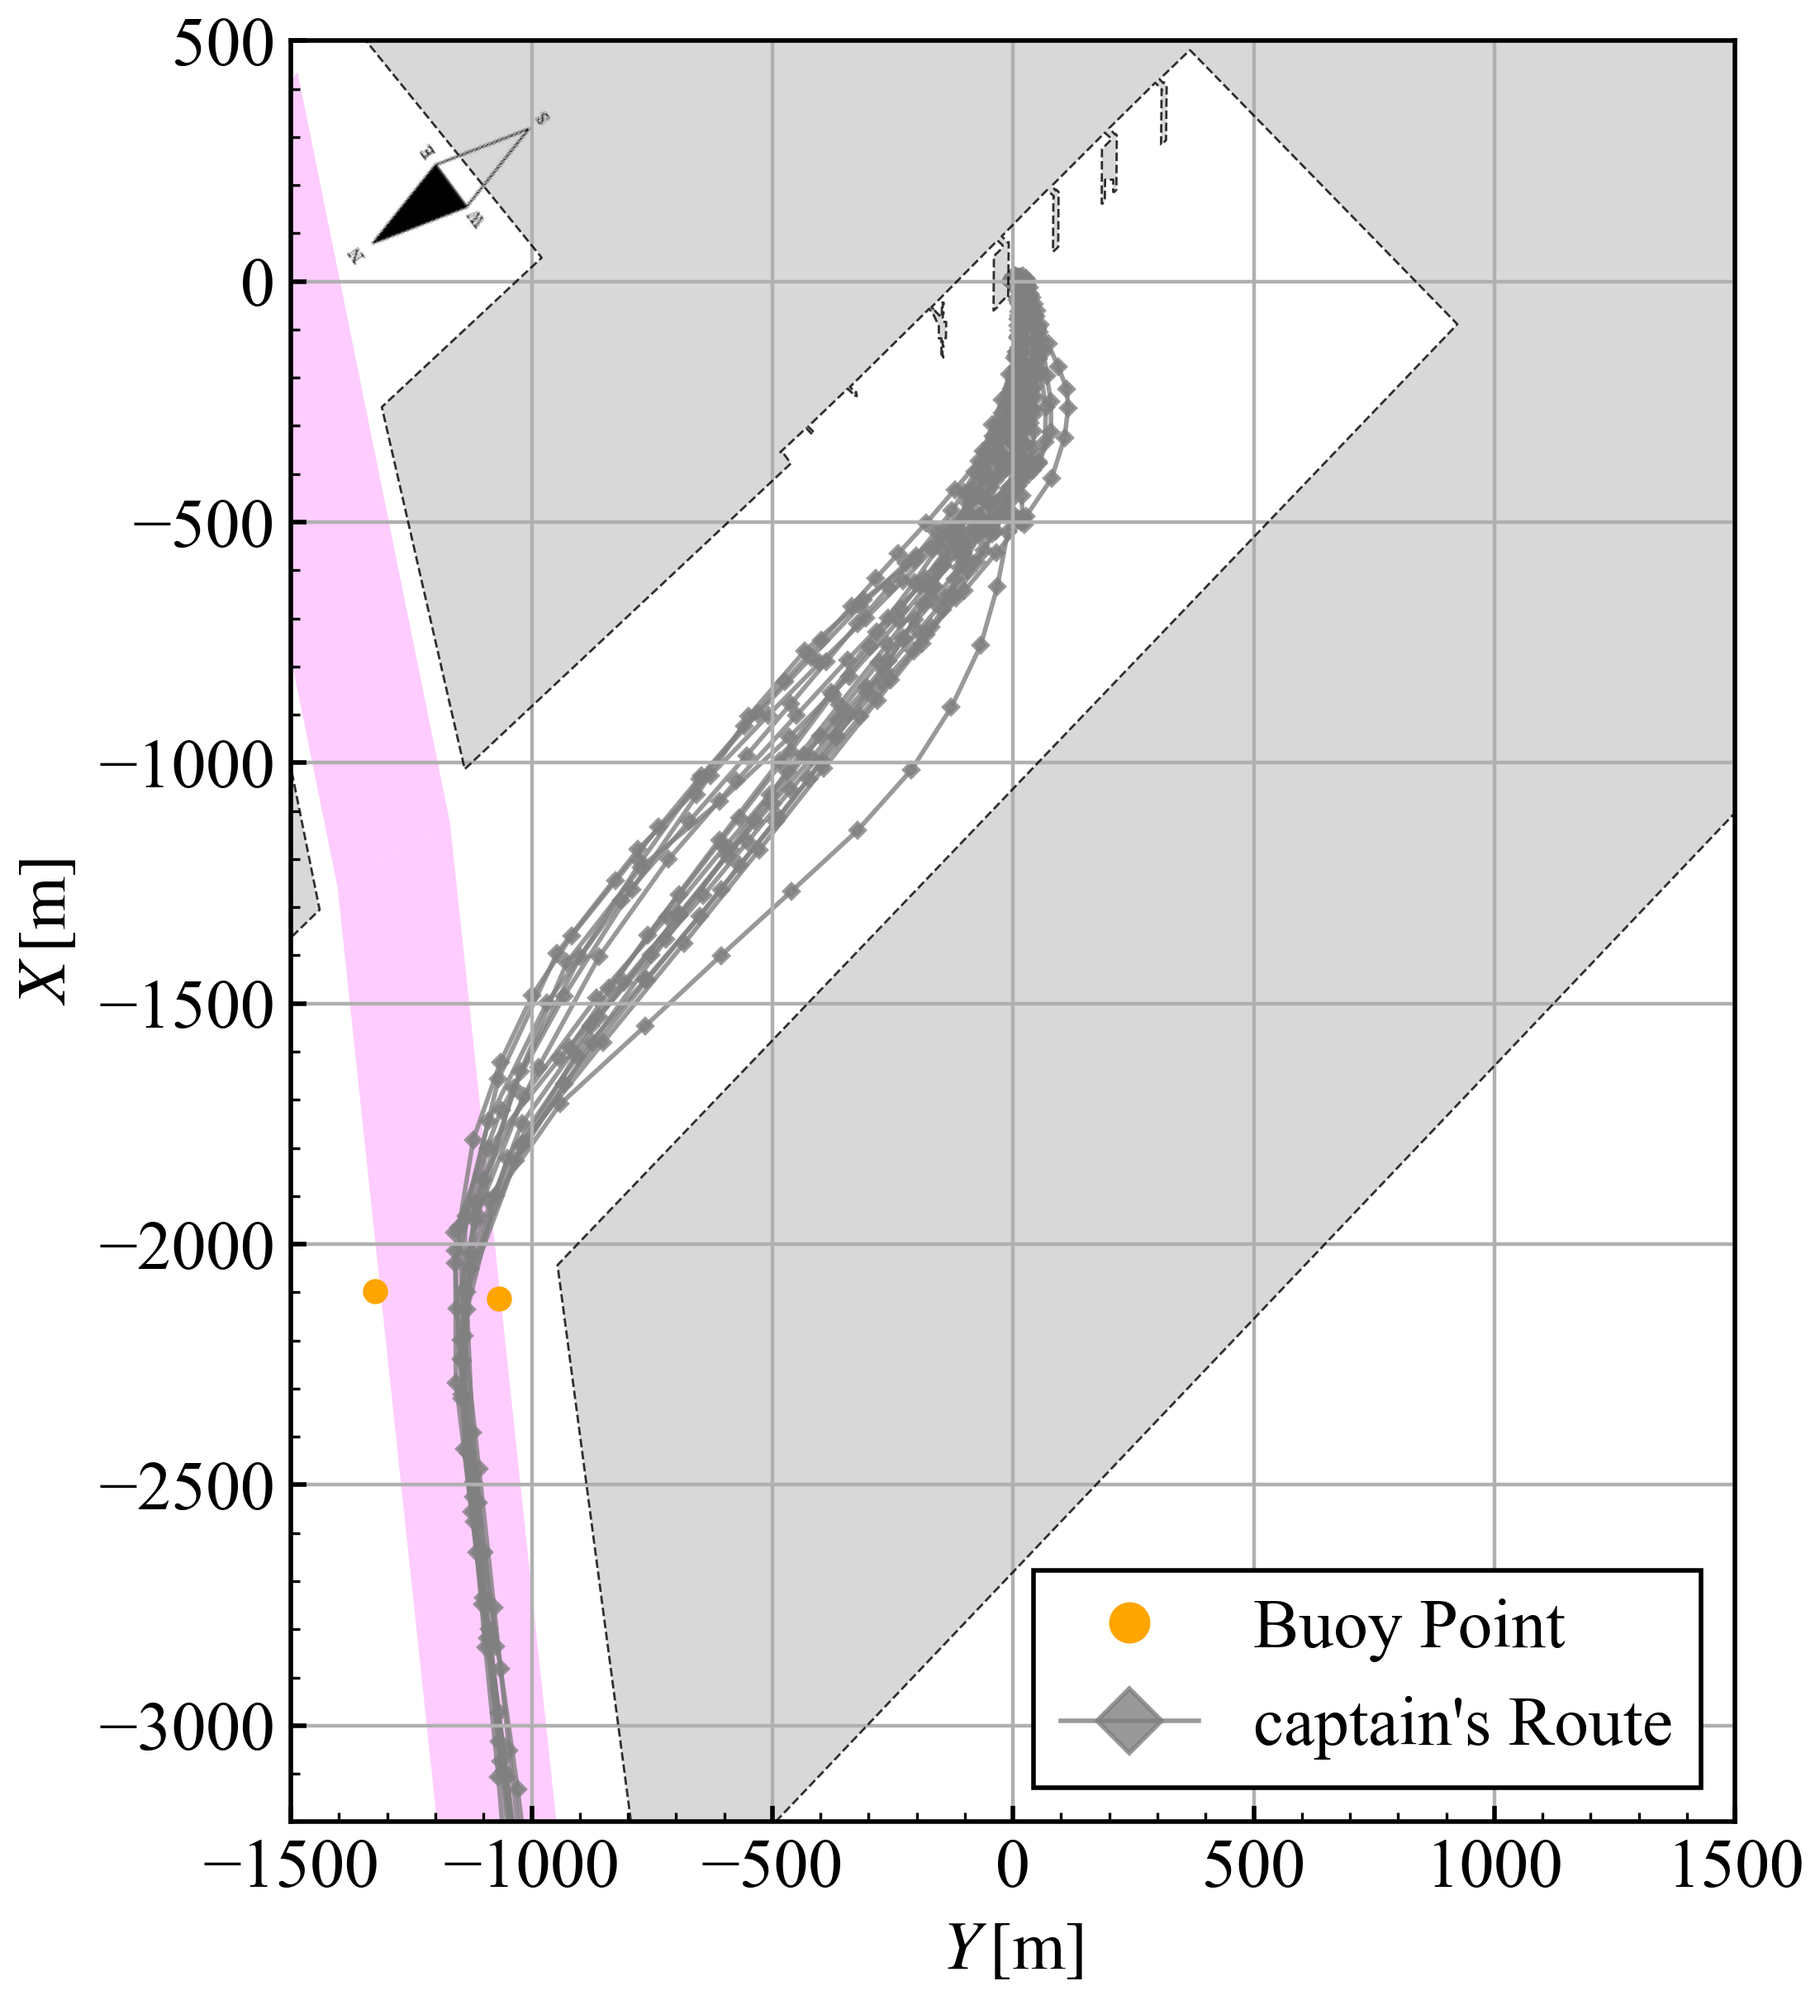
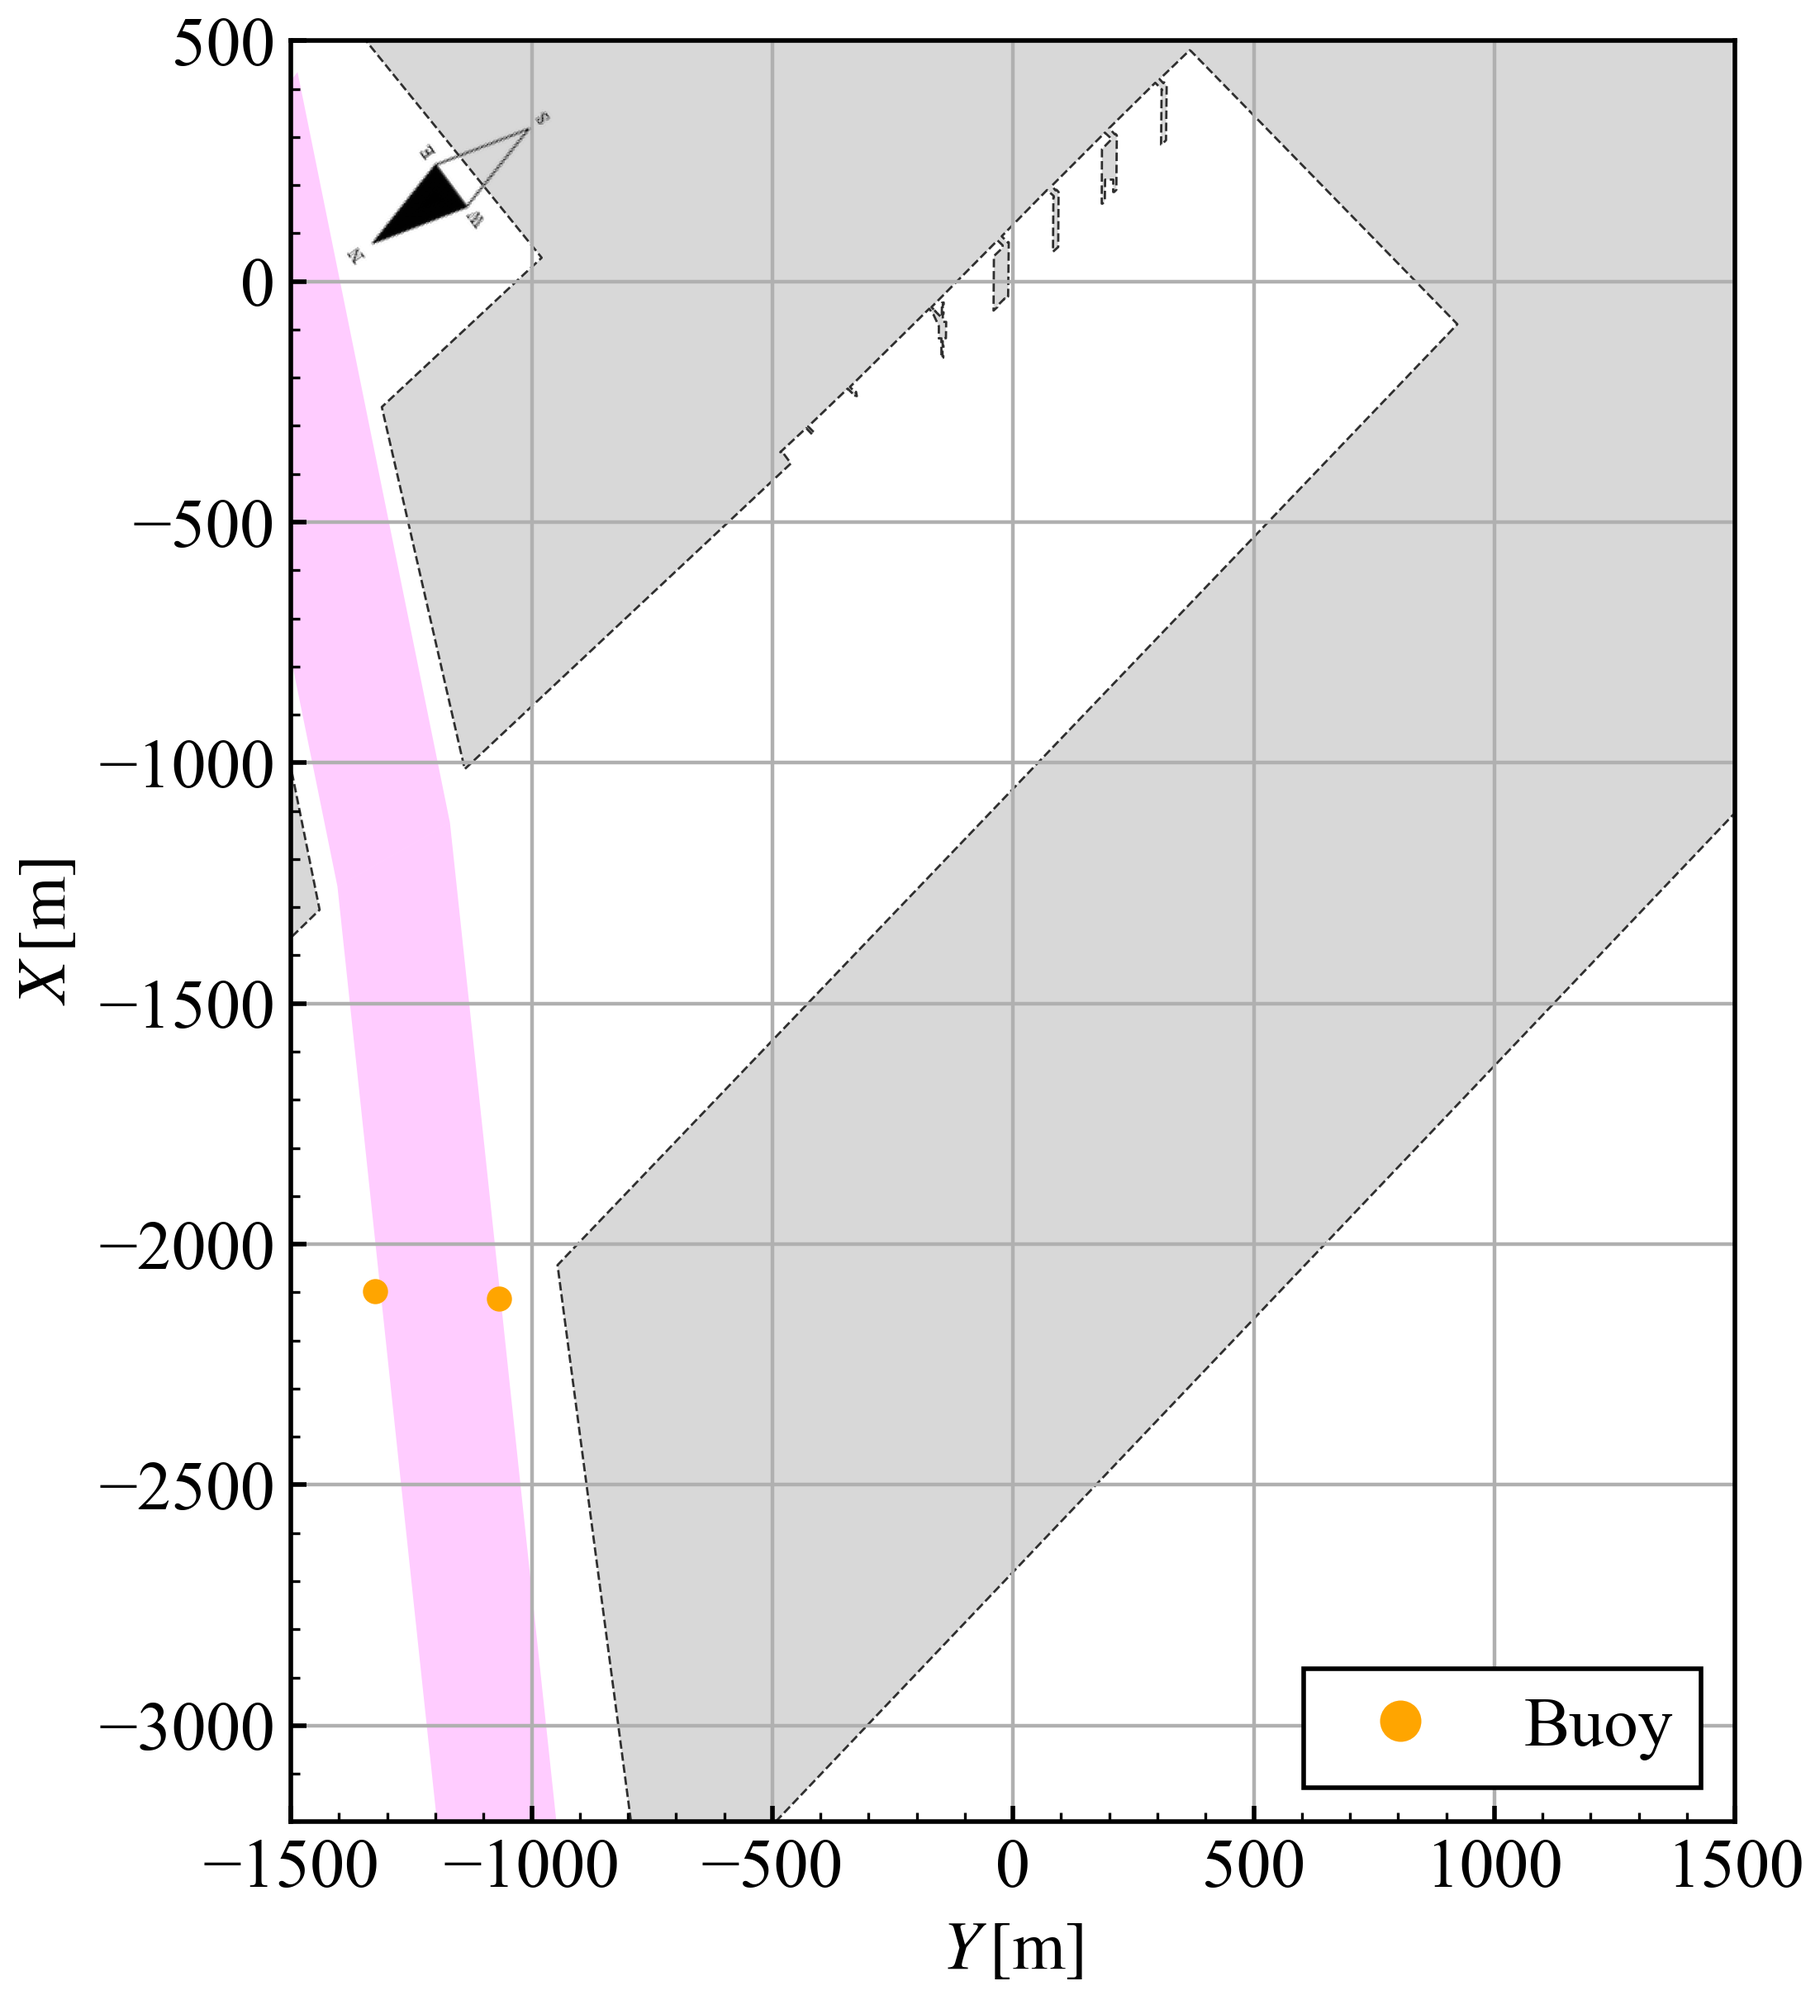
出船右舷行けた

diff --git a/program/path_planning/CMA-ES3.py b/program/path_planning/CMA-ES3.py
@@ -12,7 +12,7 @@ import pandas as pd
 from scipy import ndimage
 import shapely
 from shapely import contains_xy, intersects_xy, prepare
-from shapely.geometry import Polygon, Point
+from shapely.geometry import Polygon, Point, LineString
 from shapely.prepared import prep
 from shapely.validation import make_valid
 from typing import ClassVar, Tuple
@@ -26,12 +26,13 @@ from utils.PP.MultiPlot import RealTraj
 
 DIR = os.path.dirname(__file__)
 dirname = os.path.splitext(os.path.basename(__file__))[0]
+theta_list = np.arange(np.deg2rad(0), np.deg2rad(360), np.deg2rad(3))
 
 
 class Setting:
     def __init__(self):
         # port
-        self.port_number: int = 9
+        self.port_number: int = 8
          # 0: Osaka_1A, 1: Tokyo_2C, 2: Yokkaichi_2B, 3: Else_1, 4: Osaka_1B
          # 5: Else_2, 6: Kashima, 7: Aomori, 8: Hachinohe, 9: Shimizu
          # 10: Tomakomai, 11: KIX
@@ -72,6 +73,7 @@ class Line:
     lane:ClassVar = None
 
     def __post_init__(self):
+        self.theta = self.theta % (2 * np.pi)
         if self.end_pt == None:
             end_pt = self.fixed_pt
             if self.check(end_pt):
@@ -132,7 +134,6 @@ class CostCalculator:
         """
         SD = self.SD
         lines = self.lines
-        theta_list = np.arange(np.deg2rad(0), np.deg2rad(360), np.deg2rad(10))
 
         speed = cal_speed(self, current_pt, lines[-1].end_pt)
         psi = cal_psi(parent_pt, current_pt, child_pt)
@@ -212,7 +213,6 @@ class CostCalculator:
     def SD_penalty(self, pt, psi):
         SD = self.SD
         lines = self.lines
-        theta_list = np.arange(np.deg2rad(0), np.deg2rad(360), np.deg2rad(3))
         
         speed = cal_speed(self, pt, lines[-1].end_pt)
         r_list = []
@@ -597,7 +597,7 @@ class MakeLine:
         ax.scatter(self.df_buoy["x [m]"].values, self.df_buoy["y [m]"].values,
                     color='orange', s=20, zorder=4)
         legend_buoy = plt.Line2D([0], [0], marker="o", color="w",
-                                    markerfacecolor="orange", markersize=2, label="Buoy Point")
+                                    markerfacecolor="orange", markersize=2, label="Buoy")
         legends.append(legend_buoy)
 
         # compas
@@ -653,7 +653,7 @@ class MakeLine:
                 theta = 180
             theta = np.deg2rad(theta)
         else:
-            theta = np.deg2rad(port["psi_end"] + 10)
+            theta = np.deg2rad(port["psi_end"])
         L_berth = Line(fixed_pt=np.array((0.0, margin)), theta=theta)
         L_berth.swap()
         lines.append(L_berth)
@@ -735,23 +735,44 @@ class MakeLine:
                 L_berth.set_parent(lines[idx])
                 break
             else:
-                longest = 0.0
                 mid = (L_berth.fixed_pt + L_berth.end_pt) / 2
-                for deg_i in range(-90, 91):
-                    theta = L_berth.theta + np.deg2rad(deg_i - 180)
-                    L = Line(fixed_pt=mid, end_pt=None, theta=theta)
-                    length = np.linalg.norm(L.end_pt - L.fixed_pt)
-                    if length > longest:
-                        longest = length
-                        best_theta = theta
 
-                L_append = Line(fixed_pt=mid, theta=best_theta + np.deg2rad(5))
+                def to_xy(p_yx):
+                    return (float(p_yx[1]), float(p_yx[0]))
+                
+                if len(lines) == 2:
+                    ln = lines[0]
+                    fixed_pt = ln.fixed_pt; end_pt = ln.end_pt
+                    pts = np.linspace(end_pt, fixed_pt, 99)
+                    idx = 0
+                    while idx < 99 and Line.map_poly_prep.intersects(LineString([to_xy(pts[idx]), to_xy(mid)])):
+                        idx += 1
+                    idx_through = idx
+                    while idx < 99 and (not Line.map_poly_prep.intersects(LineString([to_xy(pts[idx]), to_xy(mid)]))):
+                        idx += 1
+                    idx_hit = idx
+                
+                else:
+                    for ln in lines[-2:0:-1]:
+                        fixed_pt = ln.fixed_pt; end_pt = ln.end_pt
+                        pts = np.linspace(end_pt, fixed_pt, 99)
+                        idx = 0
+                        while idx < 99 and Line.map_poly_prep.intersects(LineString([to_xy(pts[idx]), to_xy(mid)])):
+                            idx += 1
+                        idx_through = idx
+                        while idx < 99 and (not Line.map_poly_prep.intersects(LineString([to_xy(pts[idx]), to_xy(mid)]))):
+                            idx += 1
+                        idx_hit = idx
+
+                        if idx_hit != 99:
+                            break
+
+                ln_mid = (pts[idx_through] + pts[idx_hit]) / 2
+                theta = cal_angle(mid, ln_mid)
+                L_append = Line(fixed_pt=mid, theta=theta)
                 L_append.swap()
                 L_berth.set_parent(L_append)
                 lines.insert(base_idx, L_append)
-                if len(lines) > 10:
-                    print("too much line")
-                    break
             
         self.show_captain_line("captain's line before", last=True)
 
@@ -761,12 +782,12 @@ class MakeLine:
         berthingをstraightとturnに分割
         各航路ですること
             aproach  : 大雑把でいいのでBezier
-            straight : 着桟の前は直進したい.一旦 300 [m]としている.
+            straight : 着桟の前は直進したい.一旦 3L [m]としている.
             turn     : 着桟姿勢に応じて回頭,変針
         """
         port = self.port
         pts = self.captain_pts
-        Lpp = self.ps.L
+        margin = 3 * self.ps.L
 
         def cal_total_len(pts):
             seg_len = np.linalg.norm(pts[1:] - pts[:-1], axis=1)
@@ -789,7 +810,9 @@ class MakeLine:
         i = np.searchsorted(s_cum, u_split, side="right") - 1
         i = int(np.clip(i, 0, len(seg_len) - 1))
         turn_start_pt = port["turn start"]
-        berth_start_pt = [turn_start_pt[0] + 3 * Lpp, turn_start_pt[1]]
+        nearest_ln = self.get_nearest_line(turn_start_pt)
+        theta = nearest_ln.theta # [rad]
+        berth_start_pt = turn_start_pt + margin * np.array([np.cos(theta - np.pi), np.sin(theta - np.pi)])
         pts_for_bezier = np.vstack([pts[1:i+1], berth_start_pt])
 
         bezier_pts, _ = Bezier.bezier(pts_for_bezier, 100)
@@ -830,7 +853,11 @@ class MakeLine:
         ## psi
         psi_list = np.append(psi_list, psi_list[-1])
         n = len(turn_pts)
-        beta = (2 * np.pi - psi_list[-1]) / (n-1)
+        if port["side"] == "port":
+            beta = (2 * np.pi - psi_list[-1]) / (n-1)
+        elif port["side"] == "starboard":
+            beta = -(psi_list[-1] - 0)  / (n-1)
+
         for i in range(n-1):
             psi = psi_list[-1] + beta
             psi_list = np.append(psi_list, psi)
@@ -850,6 +877,37 @@ class MakeLine:
 
         print(init_list)
         self.show_init_route()
+
+    def get_nearest_line(self, pt):
+        """
+        pt に最も近い線分を返す
+        if 一番近いのが fixed_pt
+        elif 一番近いのが end_pt
+        else 点と直線の距離
+        """
+        lines = self.lines
+        pt = np.asarray(pt, dtype=float)
+        longest = 1e5
+
+        for ln in lines:
+            fixed_pt = np.asarray(ln.fixed_pt, dtype=float); end_pt = np.asarray(ln.end_pt, dtype=float)
+
+            v_fe = end_pt - fixed_pt; v_ef = fixed_pt - end_pt
+            v_fp = pt - fixed_pt    ; v_ep = pt - end_pt
+            if np.dot(v_fp, v_fe) < 0:
+                dist = np.linalg.norm(v_fp)
+            elif np.dot(v_ep, v_ef) < 0:
+                dist = np.linalg.norm(v_ep)
+            else:
+                FH_norm = np.dot(v_fp, v_fe)/np.linalg.norm(v_fe) # 垂線の足
+                neighbor_point = fixed_pt + (v_fe)/np.linalg.norm(v_fe)*FH_norm
+                dist = np.linalg.norm(pt - neighbor_point)
+            
+            if longest > dist:
+                longest = dist
+                nearest_line = ln
+
+        return nearest_line
     
     # CMA-ES
 
@@ -1069,7 +1127,7 @@ class MakeLine:
         if last:
             pts = np.vstack(pts_list[::-1])
             self.way_pts = pts[1:-1]
-            legend_WP = plt.Line2D([0], [0], marker="o", color="g",
+            legend_WP = plt.Line2D([0], [0], marker="o", color="w",
                                         markerfacecolor="green", markersize=2, label="Way Point")
             self.legends.append(legend_WP)
 
@@ -1199,7 +1257,6 @@ class MakeLine:
             h_list.append(h)
 
         # ship domain
-        theta_list = np.arange(np.deg2rad(0), np.deg2rad(360), np.deg2rad(3))
         for pts, psi in zip(path, head):
             speed = cal_speed(self, pts, path[-1])
             r_list = []
@@ -1351,12 +1408,12 @@ class MakeLine:
                 "name": "Osaka_port1A",
                 "side": "starboard",
                 "style": "head in",
-                "start": [-1400.0, -800.0],
-                "psi_start": 40,
+                "start": [-3000.0, -1000.0],
+                "psi_start": 0,
                 "psi_end": 0,
                 "berth_type": 2,
-                "ver_range": [-1500, 500],
-                "hor_range": [-1000, 500],
+                "ver_range": [-3200, 500],
+                "hor_range": [-1500, 1500],
             },
             1: {
                 "name": "Tokyo_port2C",
@@ -1414,7 +1471,10 @@ class MakeLine:
             },
             6: {
                 "name": "Kashima",
+                "side": "starboard",
+                "style": "head out",
                 "start": [2100.0, 2400.0],
+                "turn start": [250, -150],
                 "psi_start": -135,
                 "psi_end": -90,
                 "berth_type": 2,
@@ -1423,16 +1483,21 @@ class MakeLine:
             },
             7: {
                 "name": "Aomori",
+                "side": "port",
                 "start": [350, 3400.0],
                 "psi_start": -115,
                 "psi_end": 90,
+                "turn start": [0, 200],
                 "berth_type": 2,
                 "ver_range": [-1500, 1500],
                 "hor_range": [-1000, 3500],
             },
             8: {
                 "name": "Hachinohe",
+                "side": "port",
+                "style": "head out",
                 "start": [1350, 2500.0],
+                "turn start": [200, 250],
                 "psi_start": -110,
                 "psi_end": 90,
                 "berth_type": 2,
